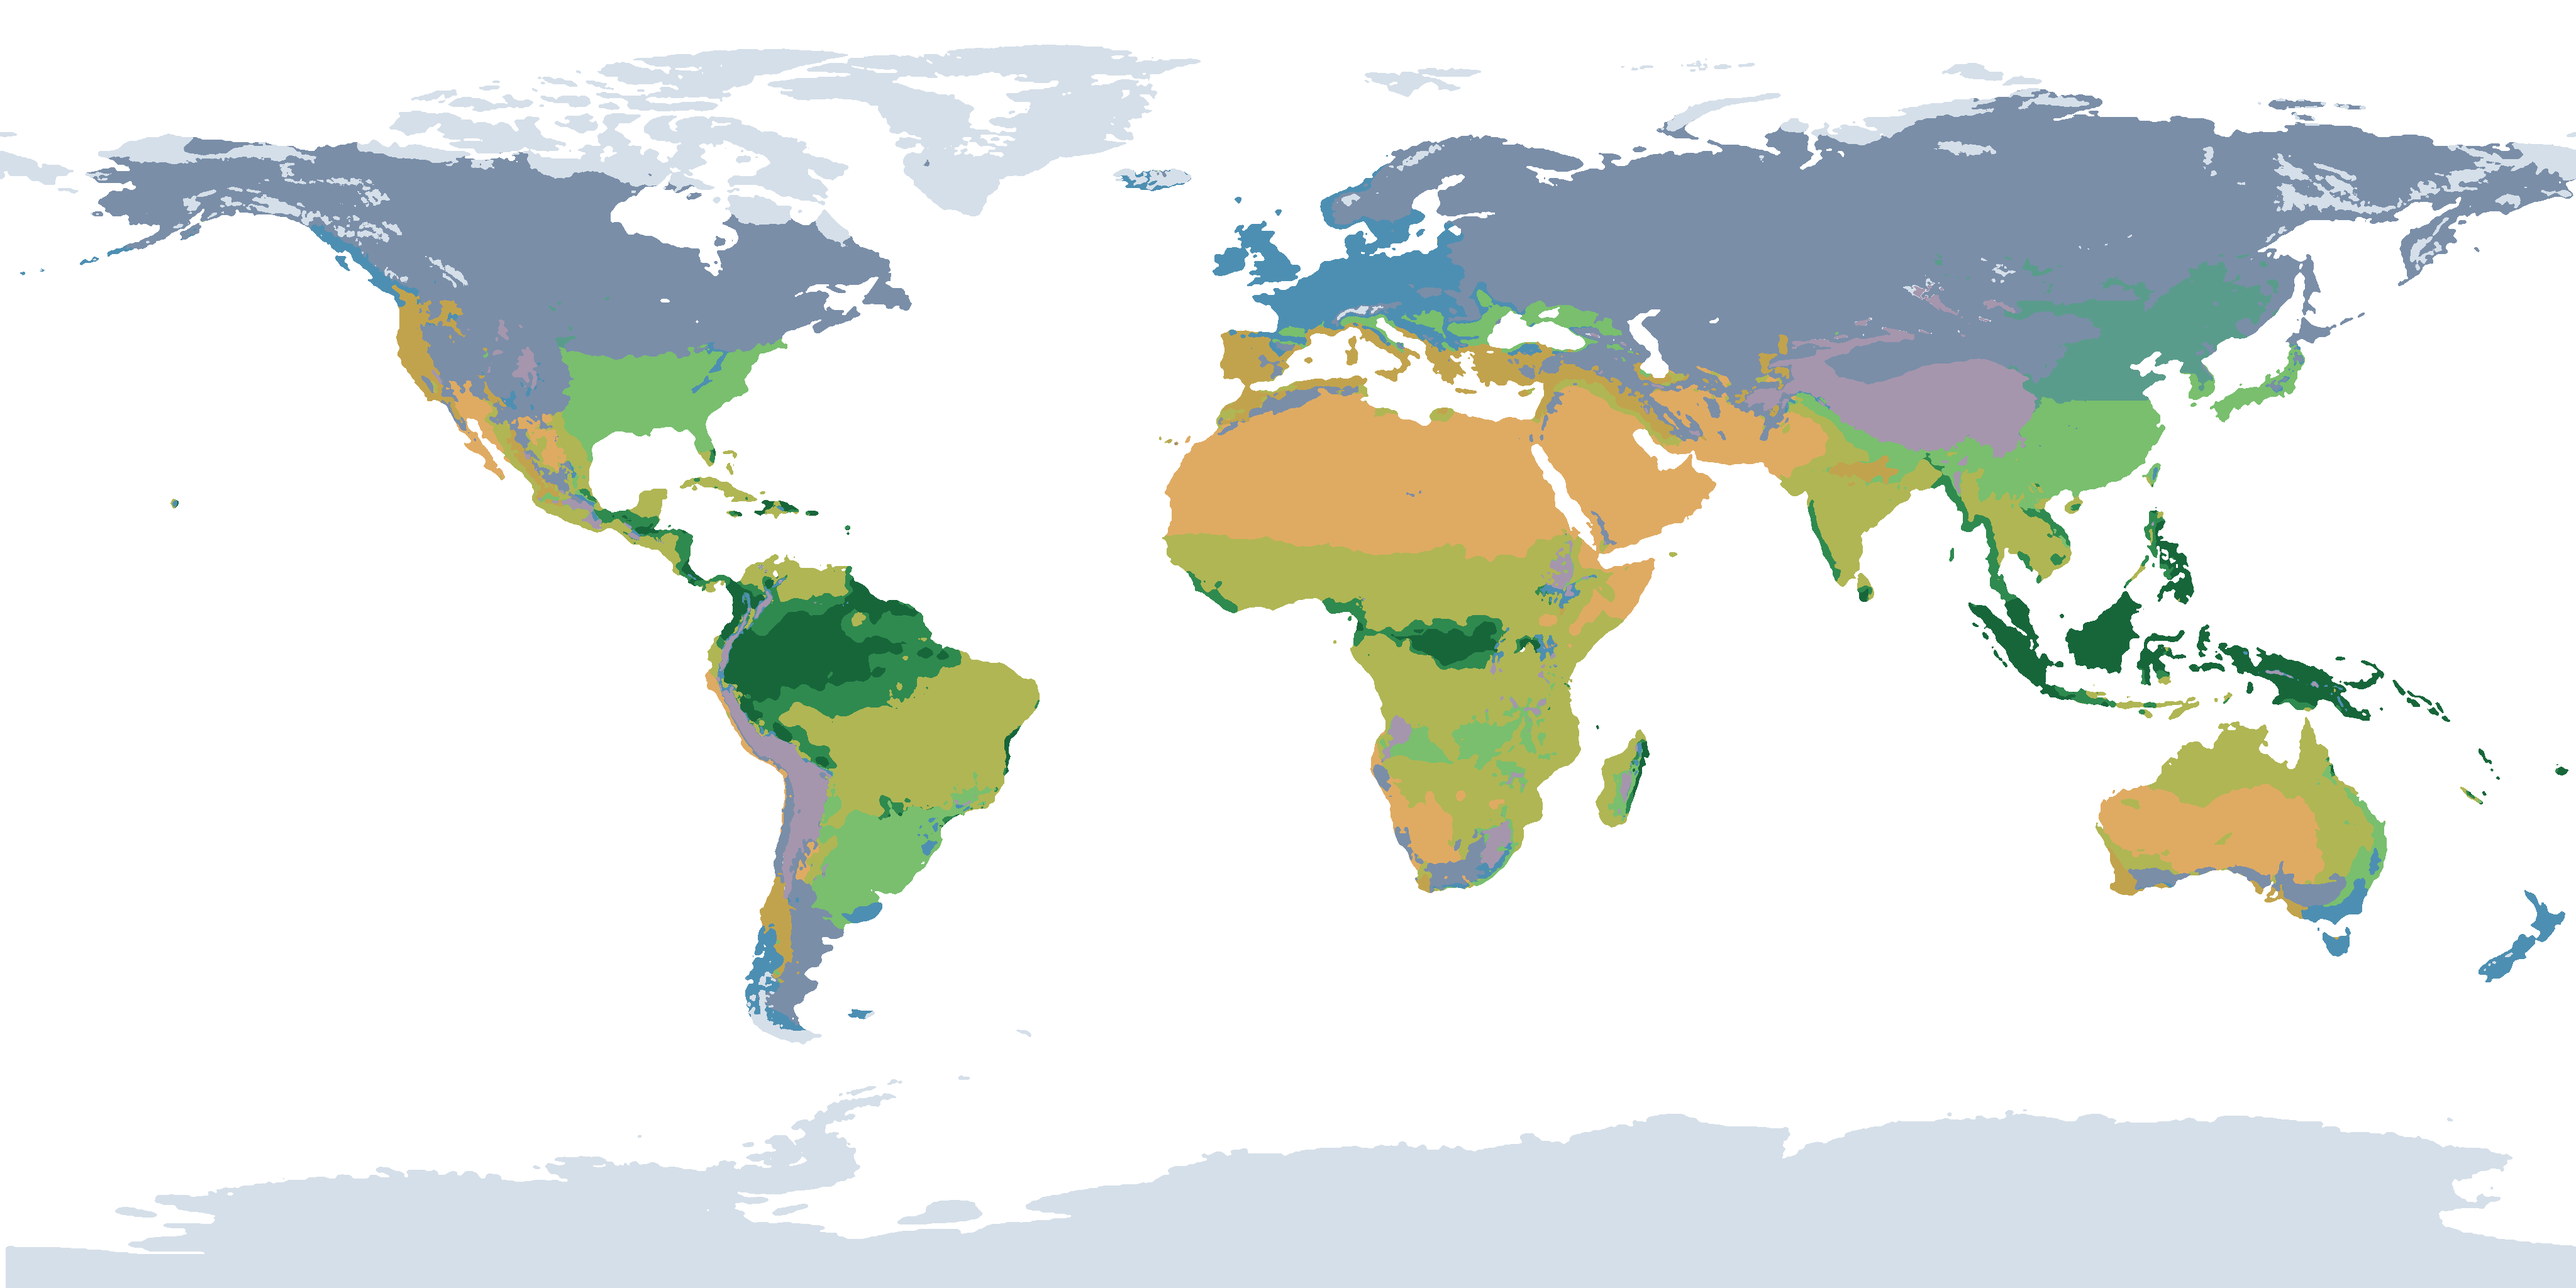
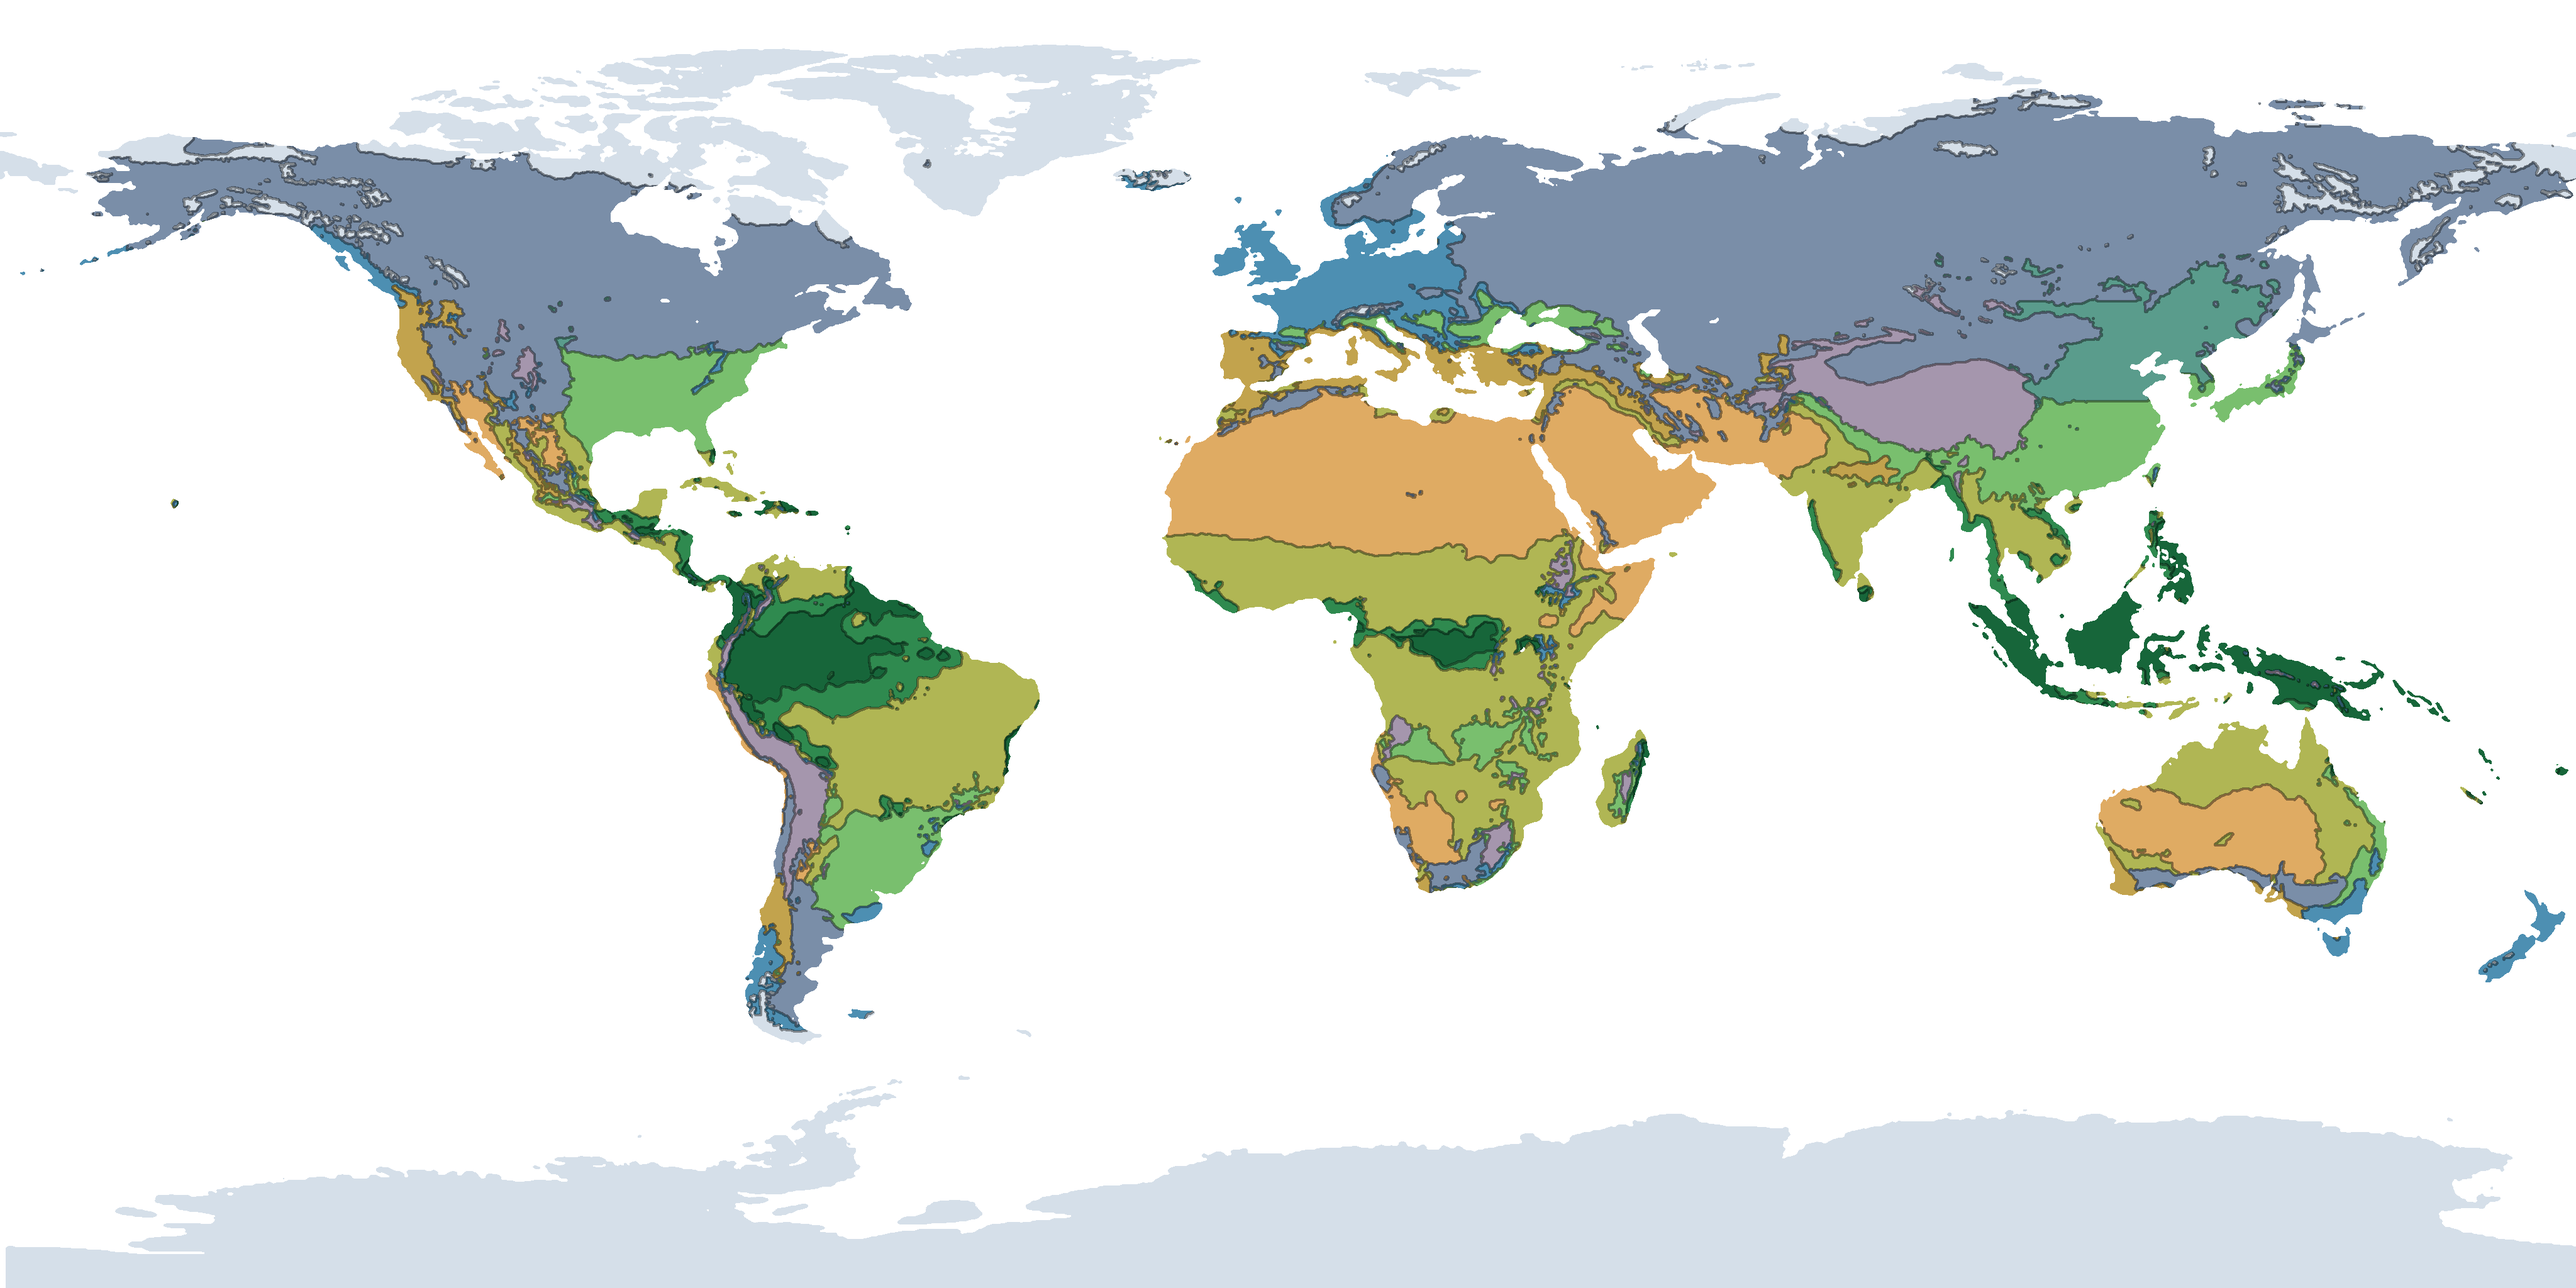
polish: 气候块加回分界线、地形海面去离岸高亮、河流线改细
- 气候：相邻两类之间压一条约 3px 的同色相深线（0.60），球面上看得清又不糊；
  调色板 23 色（11 底 + 11 线 + 透明）
- 地形：海面改成图例 0m 那一档的单一蓝，只做 ±6% 起伏，不再按离岸距离做渐变 ——
  之前的渐变让每座岛都自带一圈浅蓝高亮
- 河流：0.0017→0.0013（约 0.85px），描边收到 1.7 倍、淡到 0.24
- 地形边界数据预热（开图层就开始拉），点击请求改队列，加载中点击不再被丢
- build 2026-11-10-AP

diff --git a/index.html b/index.html
@@ -3,7 +3,7 @@
 <head>
 <meta charset="utf-8">
 <meta name="viewport" content="width=device-width, initial-scale=1, viewport-fit=cover">
-<meta name="build" content="2026-11-10-AN">
+<meta name="build" content="2026-11-10-AP">
 <link rel="icon" type="image/png" href="assets/favicon.png">
 <link rel="apple-touch-icon" href="assets/favicon.png">
 <!-- OBS 是图片/音频/贴图的唯一源站。提早点亮 DNS 和 TLS：
@@ -5623,10 +5623,16 @@ body.labels-canvas .mlabel{color:transparent!important;-webkit-text-stroke:0!imp
 
   function tShapeDraw(name, ring) {
     if (!globe.sphere || !ring || !ring.length) return;
-    /* 河流细一档：线要素本来就该比山脉 / 盆地的轮廓细 */
+    /* 河流细一档：线要素本来就该比山脉 / 盆地的轮廓细。
+       0.0017 在 700px 的球上是 1.2px 宽，看着像用马克笔描的；
+       压到 0.0010（约 0.7px）就是地图册上的那种细河线，
+       描边同步收窄到 2 倍，否则深色边比芯还显眼，又会显粗。 */
     var isRiver = tShapeKind(name) === 'river';
-    var R_CORE = isRiver ? 0.0017 : 0.0024;
-    var R_EDGE = R_CORE * 2.15;
+    /* 0.0010 在 650px 的球上只有 0.65px 宽，细过头了 —— 亚像素宽度会被
+       光栅化成一段一段的虚线。0.0013（约 0.85px）是一条连续的细线，
+       和"马克笔"那版（0.0017 / 1.1px）比明显细一档。 */
+    var R_CORE = isRiver ? 0.0013 : 0.0024;
+    var R_EDGE = R_CORE * (isRiver ? 1.7 : 2.15);
 
     /* 数据有两种形状：单段 [[lon,lat],...] 和多段 [[[lon,lat],...],...]。
        河流经常分好几段（干流 + 支流片段），按段画才不会连出横跨大陆的直线。 */
@@ -5662,7 +5668,8 @@ body.labels-canvas .mlabel{color:transparent!important;-webkit-text-stroke:0!imp
       color: TSHAPE_CORE, transparent: true, opacity: 0.98, depthWrite: false
     });
     var M_EDGE = new THREE.MeshBasicMaterial({
-      color: TSHAPE_EDGE, transparent: true, opacity: 0.36, depthWrite: false
+      color: TSHAPE_EDGE, transparent: true,
+      opacity: isRiver ? 0.24 : 0.36, depthWrite: false
     });
     var v = new THREE.Vector3();
 
@@ -5706,23 +5713,45 @@ body.labels-canvas .mlabel{color:transparent!important;-webkit-text-stroke:0!imp
   }
   globe.tShapeApply = tShapeApply;
 
+  /* 预热：图层一打开就把边界数据悄悄拉下来（166KB），
+     这样用户第一次点地形名时是"立刻有线"，而不是等一次网络往返 ——
+     观感上"点了没反应"和"慢半秒"是一回事。 */
+  globe.tShapeWarm = function () { loadShapes(null); };
+
   /* 点名字：第一次选它、再点一次取消；点另一块就换过去。 */
-  globe.toggleTShape = function (name) {
-    if (tShapeName === name) { tShapeClear(); return; }
-    if (tShapeData) {
-      tShapeName = name;
-      tShapeClear();
-      tShapeName = name;
-      tShapeApply();
-      return;
-    }
+  /* 一份数据、一个加载队列。
+     以前是"正在加载就直接 return"，于是预热（图层一打开就开始拉那 166KB）
+     期间点名字会被静默丢掉 —— 又是一个"点了没反应"。现在点下来的请求
+     排在队列里，数据一到就画。 */
+  var tShapeQueue = [];
+  function loadShapes(cb) {
+    if (tShapeData) { if (cb) cb(); return; }
+    if (cb) tShapeQueue.push(cb);
     if (tShapeLoading) return;
     tShapeLoading = true;
-    tShapeName = name;
     fetchGeoData('geo/terrain_shapes.json', function (d) {
       tShapeLoading = false;
       tShapeData = d || {};
-      if (!d) return;
+      var q = tShapeQueue;
+      tShapeQueue = [];
+      q.forEach(function (f) { f(); });
+    });
+  }
+
+  globe.toggleTShape = function (name) {
+    if (tShapeName === name) { tShapeClear(); return; }
+    tShapeName = name;              // 先记下，界面上立刻变"已选"
+    (globe.tlabels || []).forEach(function (L) {
+      if (L.name === name) L.el.classList.add('picked');
+    });
+    loadShapes(function () {
+      if (!tShapeData[name]) {      // 这条没有几何：把选中态退回去
+        tShapeClear();
+        return;
+      }
+      tShapeName = name;
+      tShapeClear();
+      tShapeName = name;
       tShapeApply();
     });
   };
@@ -7714,6 +7743,8 @@ body.labels-canvas .mlabel{color:transparent!important;-webkit-text-stroke:0!imp
     function lgToggle(name) {
       if (lgCur === name) { lgClose(); return; }
       if (!globe.earthMat) return;
+      /* 开图层的同时就把地形边界拉下来，别等用户点名字才开始 */
+      if (globe.tShapeWarm) globe.tShapeWarm();
       lgLoad(name, function (t) {
         if (!t || !globe.earthMat) return;
         globe.earthMat.uniforms.uLayerMap.value = t;
@@ -7740,7 +7771,9 @@ body.labels-canvas .mlabel{color:transparent!important;-webkit-text-stroke:0!imp
       if (lgWarm) return;
       lgWarm = 1;
       lgLoad('climate', function () {
-        lgLoad('terrain', function () {});
+        lgLoad('terrain', function () {
+          if (globe.tShapeWarm) globe.tShapeWarm();
+        });
       });
     }
     globe.lgPrewarm = lgPrewarm;
